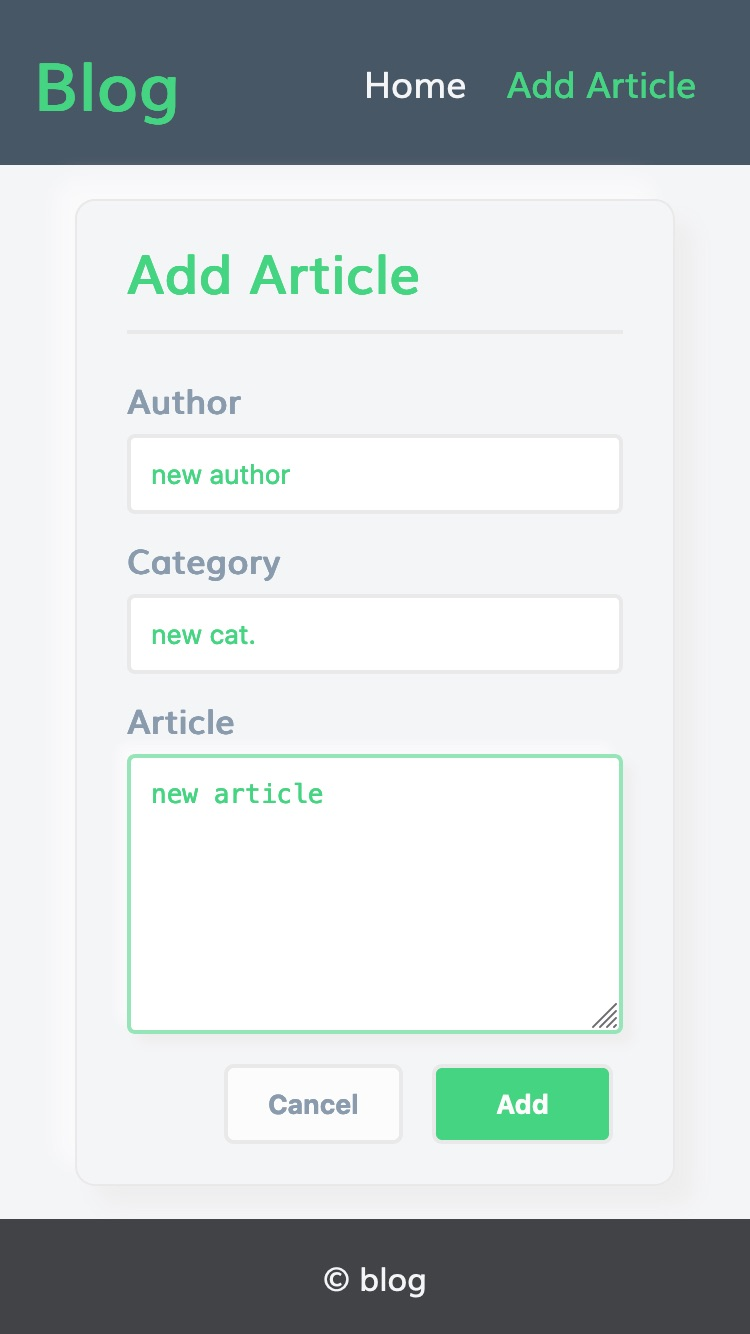
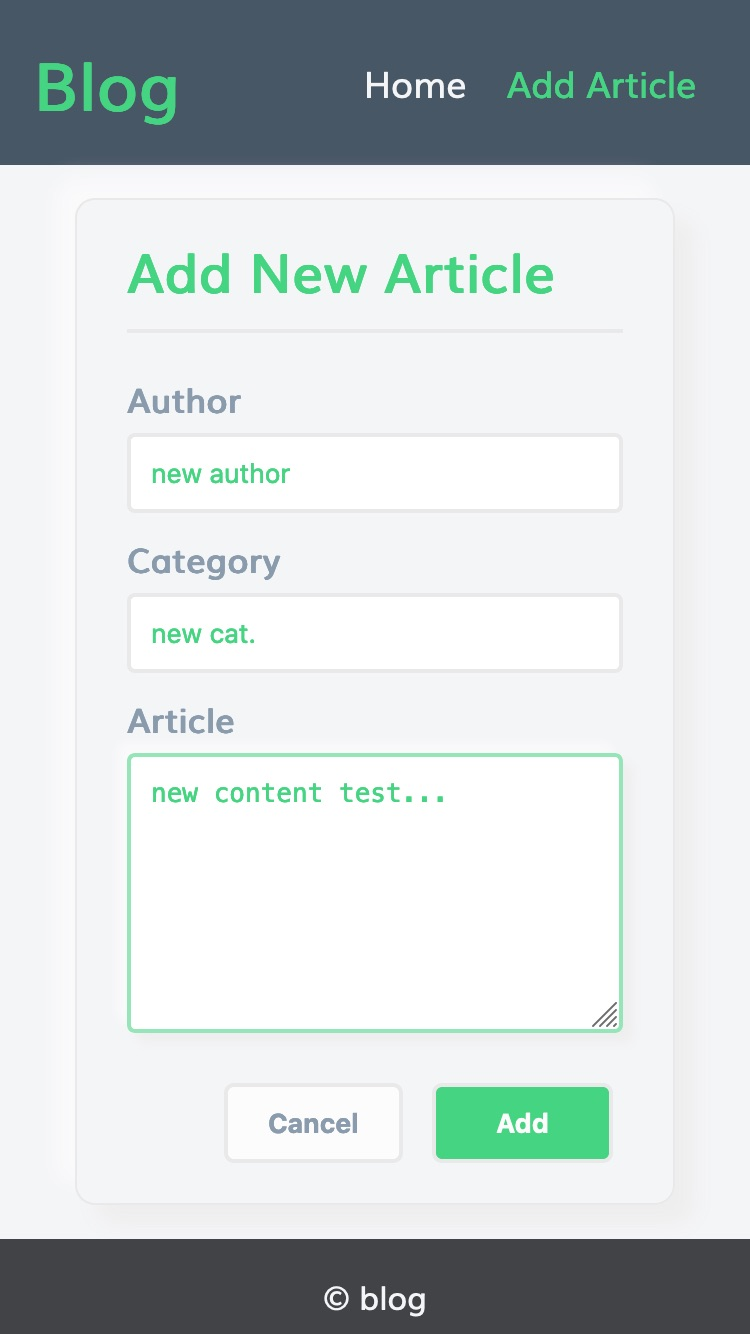
basic functions in form.js

diff --git a/src/form/form.js b/src/form/form.js
@@ -3,4 +3,70 @@
 import "../assets/styles/styles.scss"
 import './form.scss'
 
-console.log("form")
+const form = document.querySelector('form')
+const errorElement = document.querySelector('#errors')
+let errors = []
+
+// form.addEventListener('submit', asyncevent => {
+form.addEventListener('submit', event => {
+  event.preventDefault()
+  const formData = new FormData(form)
+  const article = Object.fromEntries(formData.entries())
+  if (formIsValid(article)) {
+    try {
+      const json = JSON.stringify(article)
+      // const response = await fetch("https://restapi.fr/api/article", {
+      //   method: "POST",
+      //   body: json,
+      //   headers: {
+      //     "Content-Type": "application/json"
+      //   }
+      // })
+      // const body = await response.json()
+      // console.log(body)
+      console.log(json)
+    } catch (e) {
+      console.error("e : ", e)
+    }
+  }
+
+  // other methods
+  // const entries = formData.entries()
+  // console.log(entries)
+  // const obj = Object.fromEntries(entries)
+
+  // for (let entry of entries) {
+  //   console.log(entry)
+  // }
+
+  // const obj = Array.from(entries).reduce((acc, value) => {
+  //   acc[value[0]] = value[1]
+  //   return acc
+  // }, {})
+
+  // console.log(obj)
+})
+
+const formIsValid = article => {
+  if (
+    !article.author ||
+    !article.category ||
+    !article.content
+  ) {
+    errors = []
+    errors.push("You must fill out all fields")
+  } else {
+    errors = []
+  }
+  if (errors.length) {
+    let errorHTML = ""
+    errors.forEach(e => {
+      errorHTML += `<li>${e}</li>`
+    })
+    errorElement.innerHTML = errorHTML
+    return false
+  } else {
+    errorElement.innerHTML = ""
+    return true
+  }
+}

diff --git a/src/form/form.html b/src/form/form.html
@@ -23,7 +23,7 @@
     </header>
     <div class="content">
       <form>
-        <h2 class="title">Add Article</h2>
+        <h2 class="title">Add New Article</h2>
         <div class="form-group">
           <label>Author</label>
           <input type="text" name="author" >
@@ -34,9 +34,9 @@
         </div>
         <div class="form-group">
           <label>Article</label>
-          <textarea type="text" name="article"></textarea>
+          <textarea type="text" name="content"></textarea>
         </div>
-
+        <ul id="errors"></ul> 
         <div class="form-btn-container">
           <button class="btn btn-secondary">Cancel</button>
           <button class="btn btn-primary">Add</button>

diff --git a/src/form/form.scss b/src/form/form.scss
@@ -46,4 +46,10 @@
       text-align: right;
     }
   }
+  #errors {
+    color: var(--errors);
+    font-style: italic;
+    margin-bottom: 1rem;
+    font-size: 1.4rem;
+  }
 }

diff --git a/src/assets/styles/_variables.scss b/src/assets/styles/_variables.scss
@@ -6,6 +6,7 @@
   --prim-light: #95e5b7;
   --primary: #45d481;
   --dark: #27ae60;
+  --errors: #f16464;
   --accent: #899bac;
   --acc-2: #b7cadd;
   --dark-acc: #485766;
